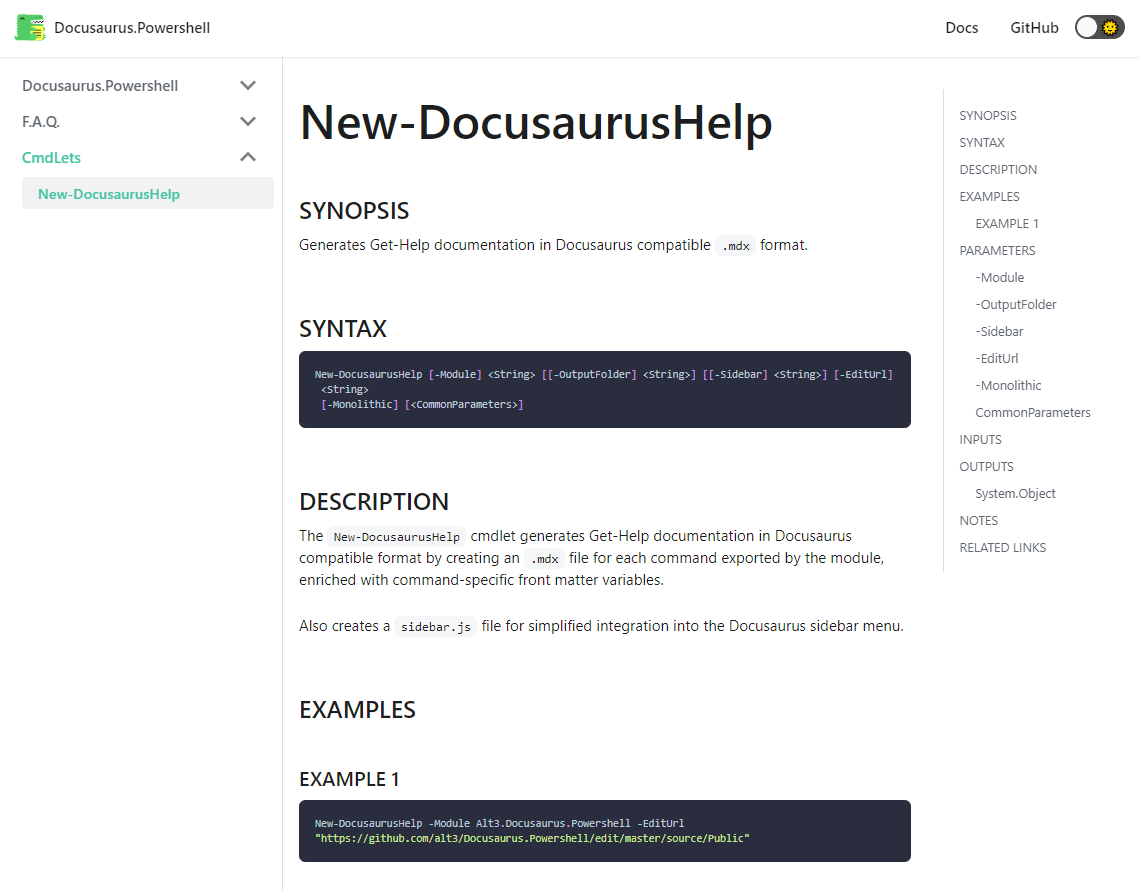
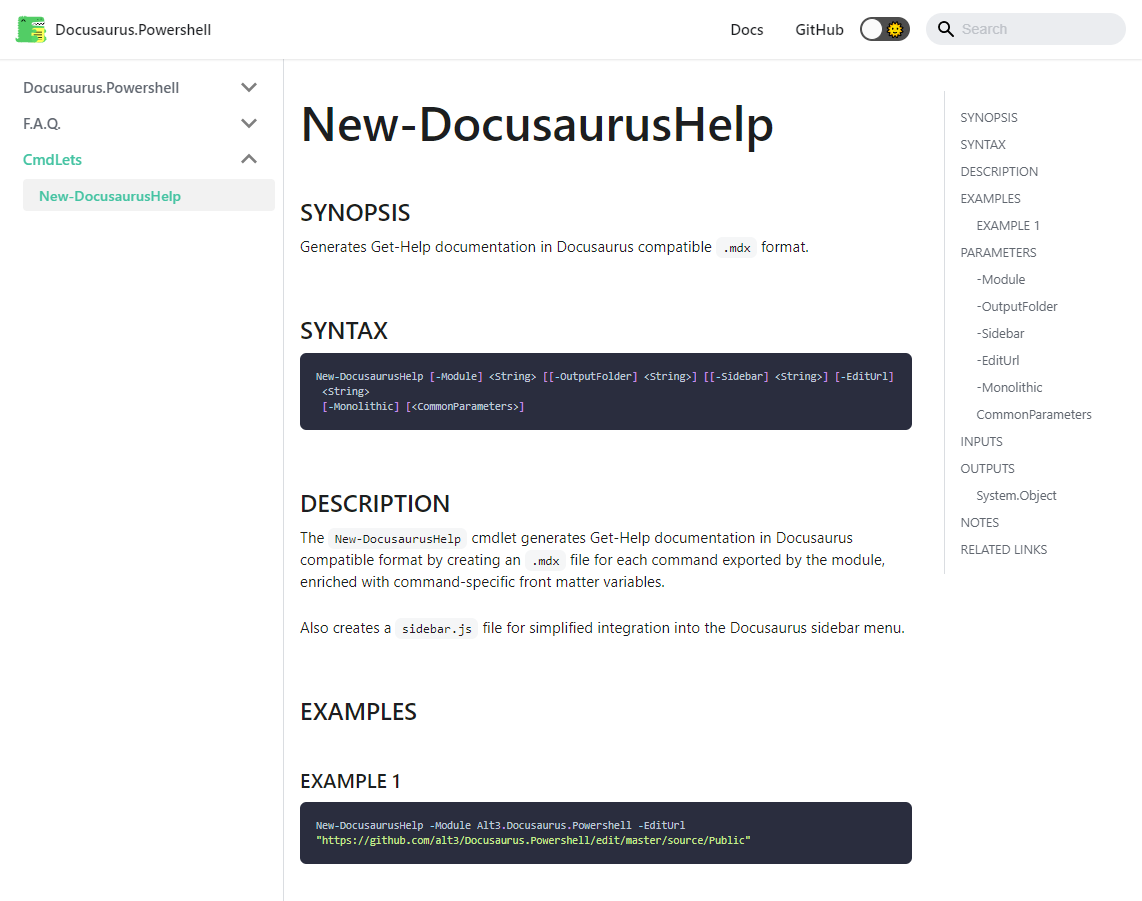
site: adds Algolia Docsearch [no-release]

diff --git a/docusaurus/docusaurus.config.js b/docusaurus/docusaurus.config.js
@@ -29,6 +29,11 @@ module.exports = {
         },
       ],
     },
+    algolia: {
+      apiKey: '5b40d1e4b3123f7f10ca9a61e3fe3da4',
+      indexName: 'docusaurus-powershell',
+      algoliaOptions: {}, // Optional, if provided by Algolia
+    },
     footer: {
       style: 'dark',
       links: [

diff --git a/docusaurus/docs/faq/docusaurus.sidebar.js b/docusaurus/docs/faq/docusaurus.sidebar.js
@@ -1,4 +1,5 @@
 module.exports = [
     'faq/multiple-modules',
     'faq/monolithic-modules',
+    'faq/search',
 ];

diff --git a/docusaurus/docs/faq/search.md b/docusaurus/docs/faq/search.md
@@ -1,0 +1,12 @@
+---
+id: search
+title: Search
+---
+
+Please be aware that, by default, the Docusaurus searchbar will not be available for your website
+**until** you configure it.
+
+To enable search:
+
+1. [apply for the Algolia DocSearch service](https://community.algolia.com/docsearch/)
+2. [update your Docusaurus configuration file](https://v2.docusaurus.io/docs/search/#connecting-algolia)
